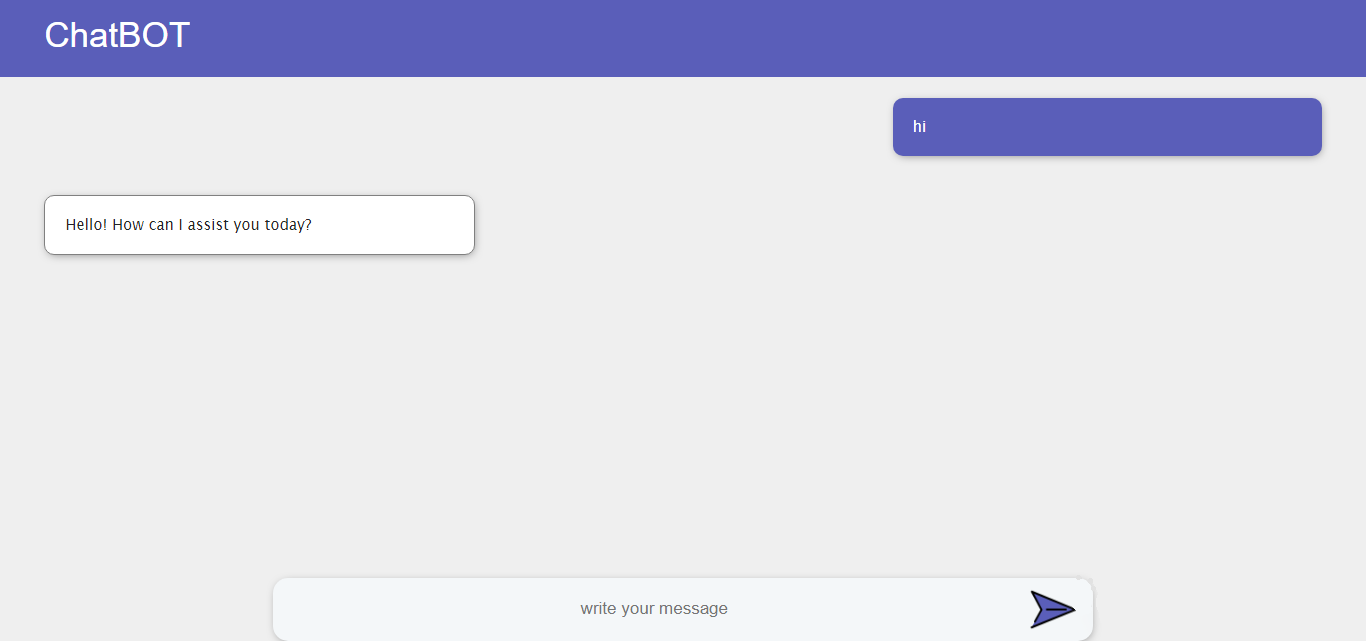
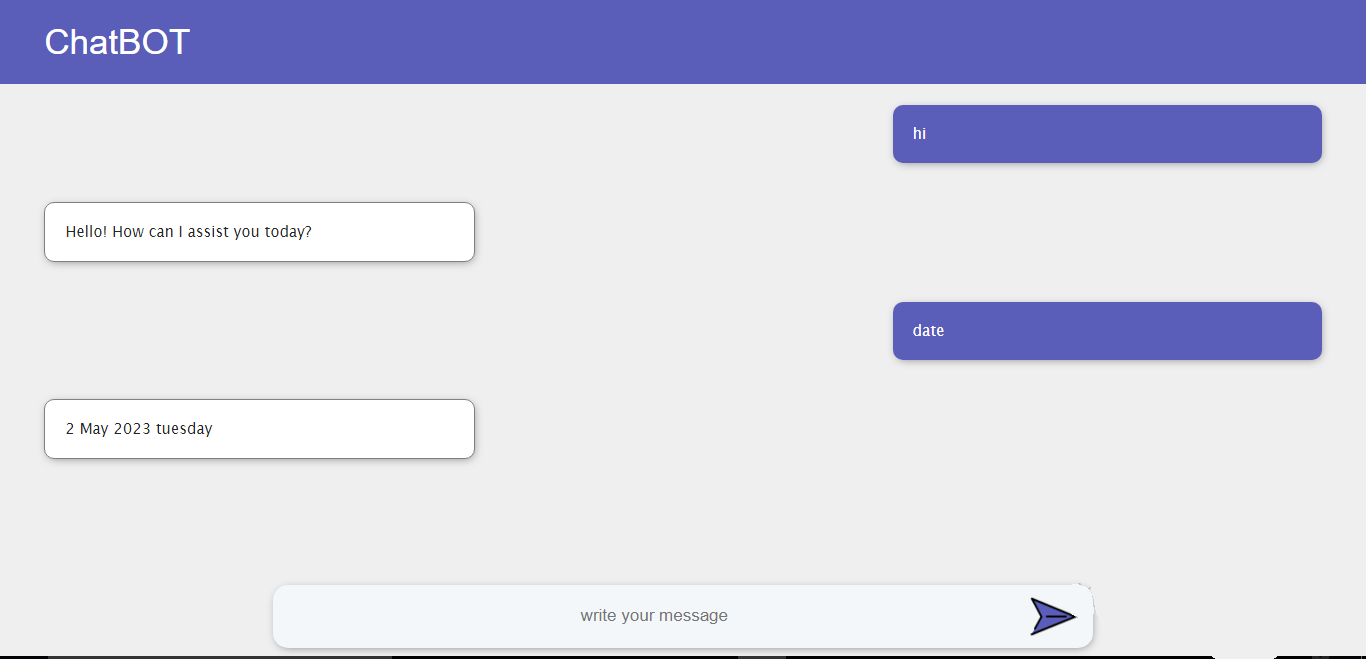
time and date command added

diff --git a/Script/modules/date.js b/Script/modules/date.js
@@ -1,0 +1,130 @@
+const date=new Date();
+var datt;
+var timee;
+function Day(){
+	var day=date.getDay();
+	switch(day){
+		case 0:
+		return "sunday"
+		break;
+		case 1:
+		return "monday"
+		break;
+		case 2:
+		return "tuesday"
+		break;
+		case 3:
+		return "wednesday"
+		break;
+		case 4:
+		return "thursday"
+		break;
+		case 5:
+		return "friday"
+		break;
+		case 6:
+		return "saturday"
+		break;
+		default:
+		return "invalid"
+	}
+}
+function Month(){
+	var month=date.getMonth();
+	switch(month){
+		case 0:
+		return "January"
+		break;
+		case 1:
+		return "February"
+		break;
+		case 2:
+		return "March"
+		break;
+		case 3:
+		return "April"
+		break;
+		case 4:
+		return "May"
+		break;
+		case 5:
+		return "June"
+		break;
+		case 6:
+		return "July"
+		break;
+		case 7:
+		return "August"
+		break;
+		case 8:
+		return "September"
+		break;		
+		case 9:
+		return "October"
+		break;
+		case 10:
+		return "November"
+		break;
+		case 11:
+		return "December"
+		break;
+	}
+}
+function Dyear(){
+	datt=date.getDate()+" "+ Month()+" "+date.getFullYear()+" "+Day();
+	return datt;
+}
+function Time(){
+	var Hours=date.getHours();
+	if(Hours<12){
+		var time=date.getHours()+":"+date.getMinutes()+":"+date.getSeconds()+" "+"AM";
+		timee=time;
+		return time;
+	}
+	else{
+		switch(Hours){
+			case 13:
+			timee=1+":"+date.getMinutes()+":"+date.getSeconds()+" "+"PM"
+			break;
+			case 14:
+			timee=2+":"+date.getMinutes()+":"+date.getSeconds()+" "+"PM"
+			break;
+			case 15:
+			timee=3+":"+date.getMinutes()+":"+date.getSeconds()+" "+"PM"
+			break;
+			case 16:
+			timee=4+":"+date.getMinutes()+":"+date.getSeconds()+" "+"PM"
+			break;
+			case 17:
+			timee=5+":"+date.getMinutes()+":"+date.getSeconds()+" "+"PM"
+			break;
+			case 18:
+			timee=6+":"+date.getMinutes()+":"+date.getSeconds()+" "+"PM"
+			break;
+			case 19:
+			timee=7+":"+date.getMinutes()+":"+date.getSeconds()+" "+"PM"
+			break;
+			case 20:
+			timee=8+":"+date.getMinutes()+":"+date.getSeconds()+" "+"PM"
+			break;
+			case 21:
+			timee=9+":"+date.getMinutes()+":"+date.getSeconds()+" "+"PM"
+			break;
+			case 22:
+			timee=10+":"+date.getMinutes()+":"+date.getSeconds()+" "+"PM"
+			break;
+			case 23:
+			timee=11+":"+date.getMinutes()+":"+date.getSeconds()+" "+"PM"
+			break;
+			default:
+			timee=12+":"+date.getMinutes()+":"+date.getSeconds()+" "+"PM"
+
+		}
+		return timee;
+	}
+}
+window.setInterval(()=>{
+	Dyear();
+	Time();
+},1000);
+export {Dyear,Time};

diff --git a/Script/script.js b/Script/script.js
@@ -1,9 +1,9 @@
 var data;
-fetch('./command.json')
-.then(res=>res.json())
-.then(res=>data=res)
-.catch((err)=>{console.log(err)});
-
+import da from './command.json';
+import { Dyear, Time } from './modules/date.js';
+console.log(Dyear());
+console.log(Time());
+data=da;
 document.addEventListener("keypress",(e)=>{if(e.key=='Enter'){send()}});
 
 function Reply(command){
@@ -23,6 +23,12 @@ function Reply(command){
             ex+=command[i];
         }
         text.textContent = eval(ex);
+    }
+    else if(command=="time"){
+        text.textContent=Time();
+    }
+    else if(command=="date"){
+        text.textContent=Dyear();
     }
     else if(data[command]!=undefined){
         text.textContent=data[command];

diff --git a/index.html b/index.html
@@ -5,7 +5,7 @@
     <meta http-equiv="X-UA-Compatible" content="IE=edge">
     <link rel="stylesheet" href="./style.css">
     <meta name="viewport" content="width=device-width, initial-scale=1.0">
-    <script src="script.js" ></script>
+    <script src="./Script/script.js" type="module" ></script>
     
 </head>
 <body>
